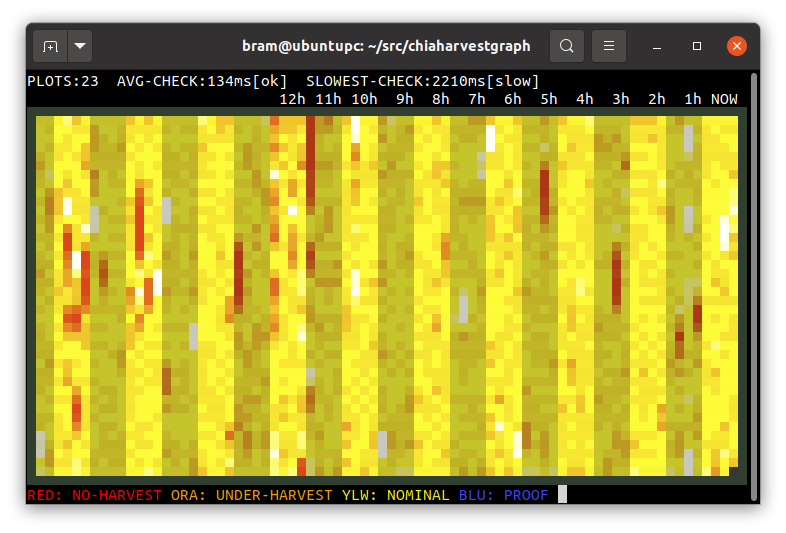
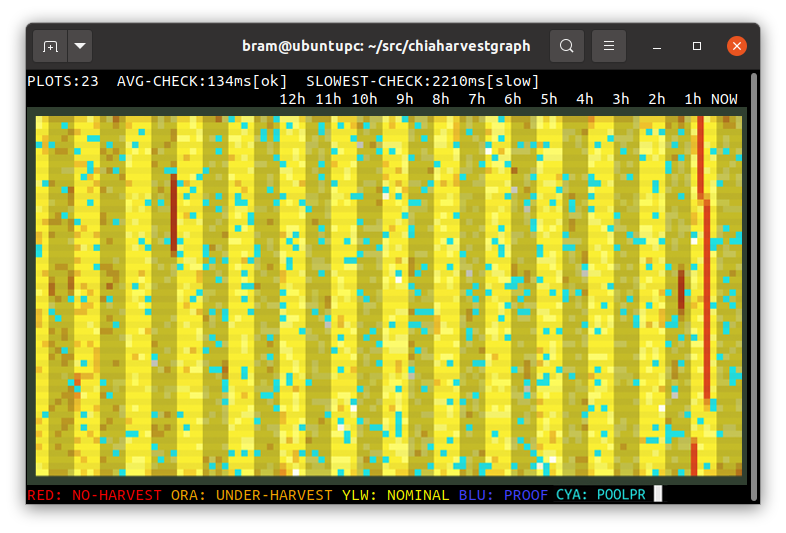
added cyan in README and updated screenshot example

diff --git a/README.md b/README.md
@@ -27,7 +27,9 @@ Set the loglevel for Chia to **INFO** by editting `~/.chia/mainnet/config/config
 
 Then do:
 
-**$ ./chiaharvestgraph ~/.chia/mainnet/log**
+```bash
+$ ./chiaharvestgraph ~/.chia/mainnet/log
+```
 
 Leave the tool running, as it keeps checking the log. More pixels will scroll in from the right, plotting top to bottom.
 
@@ -74,11 +76,13 @@ A yellow colour means that the harvest frequency is nominal for that time span.
 
 An orange colour means that it was under harvested.
 
-A red colour means that there was no harvesting at those time slots.
+A red colour means that there was no harvesting at those time slots. This means something is wrong or your system is off.
 
 A white colour means that there was a bit more than expected harvesting, due to fluctuations.
 
 Dark Grey means that the log did not go far enough back for that time period.
+
+A cyan colour means a proof was sent to your pool. This is just the method pools use to gauge how much space you are contributing.This is not the same as you finding a proof that results in winning XCH.
 
 And for the incredibly lucky... a blue pixel represents a found proof! Yeehaw!
 Better check your wallet!
